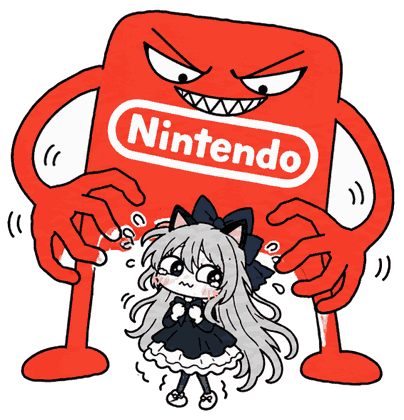
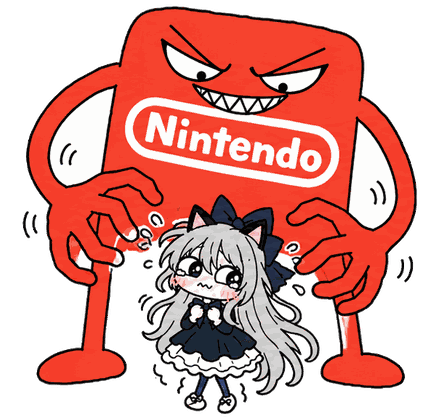
Add John Nintendo arrive and leave animations

diff --git a/index.html b/index.html
@@ -184,15 +184,47 @@ function headpat() {
   if (mood === "good") play([...putDownFirst(), "pat"], "good");
 }
 
-// John Nintendo loops on his own (only visible when gezine is bad)
-const JOHN = { frames: [0, 1, 2, 3].map((n) => "images/john/" + n + ".png"), ms: [550, 350, 650, 300] };
-JOHN.frames.forEach((f) => { new Image().src = f; });
-let johnFrame = 0;
-(function johnStep() {
-  document.getElementById("john-img").src = JOHN.frames[johnFrame];
-  setTimeout(johnStep, JOHN.ms[johnFrame]);
-  johnFrame = (johnFrame + 1) % JOHN.frames.length;
-})();
+// John Nintendo: rises up when gezine is caught, looms, then chases the money bag away
+const JA = {
+  loop:  { frames: frames("john"),       ms: [550, 350, 650, 300] },
+  enter: { frames: frames("john-enter"), ms: [350, 350, 400, 300] },
+  leave: { frames: frames("john-leave"), ms: [350, 500, 450, 500] },
+};
+for (const a of Object.values(JA)) for (const f of a.frames) new Image().src = f; // preload
+
+let johnTimer;
+// then = "loop" to keep looming afterwards, or "hide" to disappear afterwards
+function johnPlay(name, then) {
+  clearTimeout(johnTimer);
+  const el = document.getElementById("john-img");
+  const a = JA[name];
+  let i = 0;
+  const step = () => {
+    if (i >= a.frames.length) {
+      if (then === "hide") { document.getElementById("john").hidden = true; return; }
+      return johnPlay("loop", "loop");
+    }
+    el.src = a.frames[i];
+    johnTimer = setTimeout(step, a.ms[i]);
+    i++;
+  };
+  step();
+}
+
+let johnShown = false, firstMood = true;
+function johnMood(bad) {
+  const box = document.getElementById("john");
+  if (bad && !johnShown) {
+    box.hidden = false;
+    johnPlay(firstMood ? "loop" : "enter", "loop"); // no entrance on first page load
+  } else if (!bad && johnShown) {
+    johnPlay("leave", "hide");
+  } else if (!bad) {
+    box.hidden = true;
+  }
+  johnShown = bad;
+  firstMood = false;
+}
 
 // every 20 seconds, if he's being good and just idling, he plays his console for a bit
 setInterval(() => {
@@ -204,7 +236,7 @@ function setMood(bad) {
   const img = document.getElementById("gezine-img");
   changeMood(bad);
   img.alt = bad ? "gezine looking guilty with a bag of money" : "gezine being a good boy";
-  document.getElementById("john").hidden = !bad;
+  johnMood(bad);
   show("mood-btn", bad ? "Press F to pay respects to the exploits" : "Give gezine headpats");
   for (const [node, text] of originals) node.nodeValue = text; // undo old uwu
   originals.clear();
